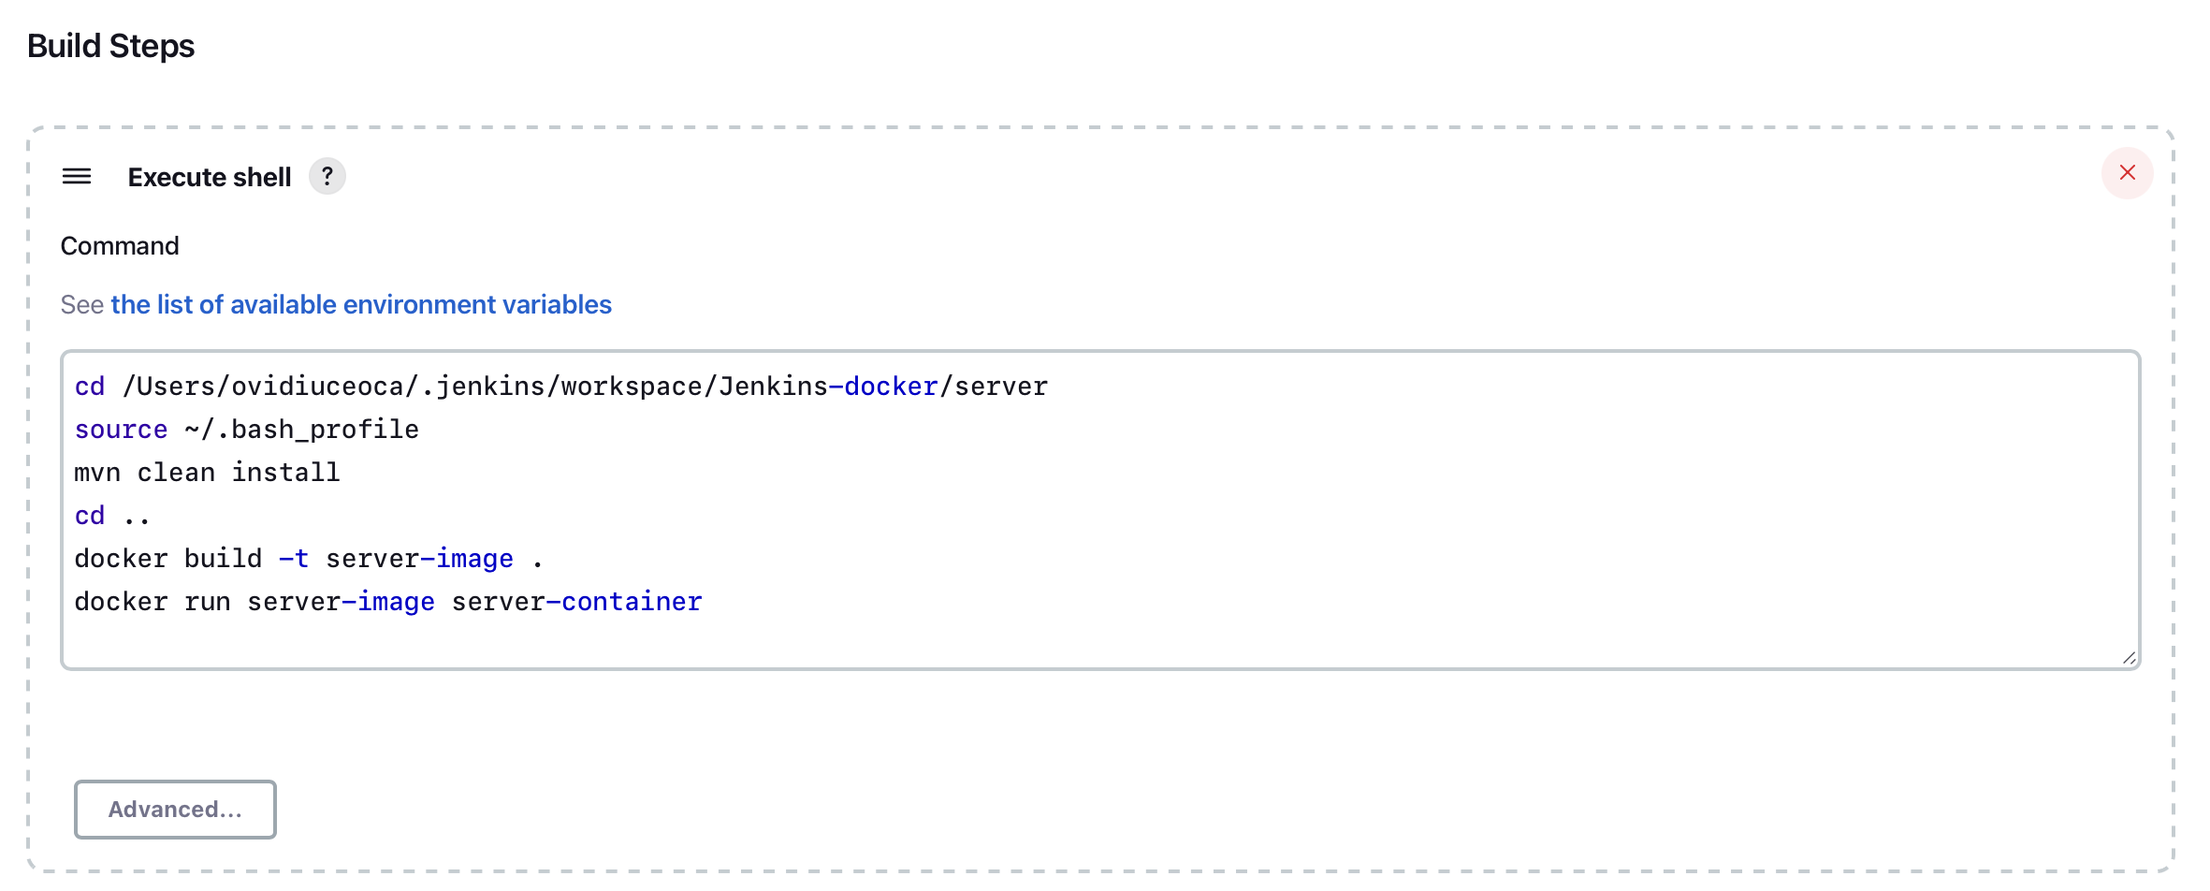
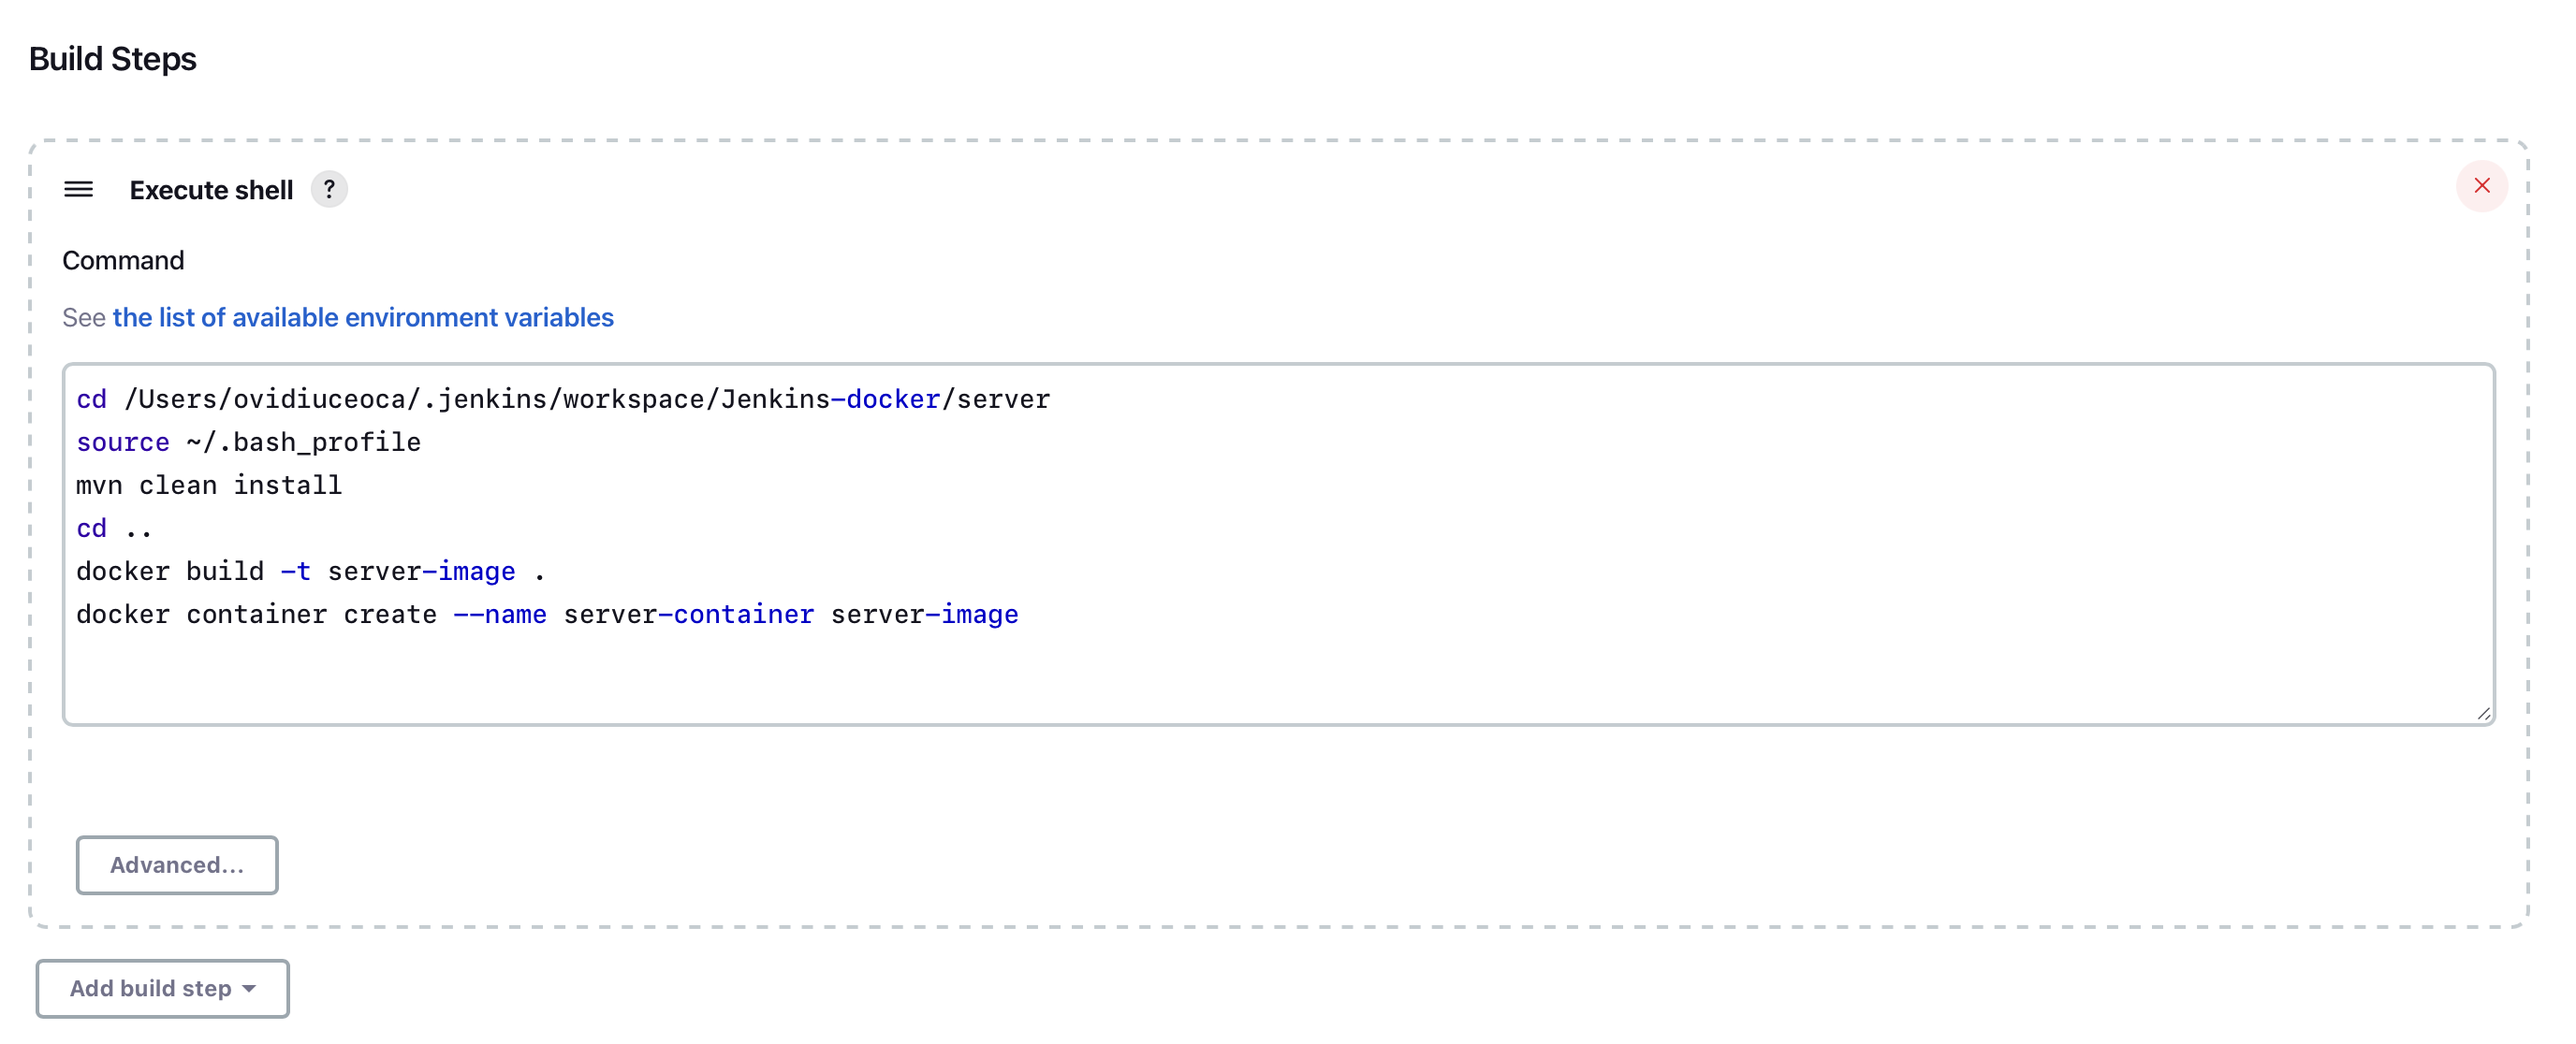
jenkins now creates a container without running it

diff --git a/README.md b/README.md
@@ -10,7 +10,7 @@
 - [Jenkins Plugins](#jenkins-plugins)
 - [(*optional*) Jenkins Global Tool Configuration](#optional-jenkins-global-tool-configuration)
 - [Create JAR using Jenkins Job](#create-jar-using-jenkins-job)
-- [Create Docker image from the JAR](#create-docker-image-from-the-jar)
+- [Create Docker Container from the JAR](#create-docker-container-from-the-jar)
 - [Errors](#errors)
 
 # Versions
@@ -103,6 +103,8 @@ brew services restart jenkins-lts
 
 ! On "Unlock Jenkins" page is the path where you can find the initial password that you need to use.
 
+! Jenkins page can be found [here](http://localhost:8080)
+
 # Jenkins Plugins
 
 1. Go to Jenkins *Dashboard*
@@ -144,18 +146,52 @@ mvn clean install
 
 > NOTE: Change the lines according to your setup. 
 
-# Create Docker image from the JAR
-
-1. Select the job and click on **Configure**
-2. Just add the following lines of code in **Build Steps** 
+# Create Docker Container from the JAR
+1. Make sure that *Docker* is running in background
+2. Select the job and click on **Configure**
+3. Just add the following lines of code in **Build Steps** 
 ![jenkins_docker_image](media/jenkins_docker_image.png)
 ```
 cd ..
 docker build -t server-image .
-docker run server-image server-container
+docker container create --name server-container server-image
 ```
-3. There should be some error regarding *Docker* like **docker: command not found**, but you can follow the optional step above to install it in *Jenkins* and after that restart both platforms.
-4. After running the job again, the docker starts creating the image   
+4. There should be some error regarding *Docker* like **docker: command not found**, but you can follow the optional step above to install it in *Jenkins* and after that restart both platforms.
+5. After running the job again, the docker starts creating the image   
 ![jenkins_docker_success](media/jenkins_docker_success.png)
+6. And finally, open the terminal and enter the following command
+```
+docker ps
+```
+7. You can see that the container is running. This is ok because that is what we wanted, but because is a Spring project, it means that the Jenkins job will never end so we need to create the container, but do not run it.
+![docker_running_container](media/docker_running_container.png)
+
+8. If you get an error like this, it is because there is already a container with that name on docker so to avoid this problem, the build steps should be changed. Firstly, the container should be stopped and deleted, and then rebuilt.:
+![docker_duplicate_container](/media/docker_duplicate_container.png)
+
+9. Change the code to the one below. I also added some *echo* commands to let the user know what is happening behind the scene.
+![docker_duplicate_container_solution](media/docker_duplicate_container_solution.png)
+
+```
+cd /Users/ovidiuceoca/.jenkins/workspace/Jenkins-docker/server
+source ~/.bash_profile
+mvn clean install
+cd ..
+echo "Building the image..."
+docker build -t server-image .
+echo "Stopping and removing already running container..."
+docker stop server-container || true && docker rm server-container || true
+echo "Creating the container..."
+docker container create --name server-container server-image
+echo "Container created. It is ready to run"
+```
+
+10. Now we have a created container but it is not running so open a terminal and run the following command:
+
+```
+docker start server-container
+```
+
+11. Now the container is running and everytime you push something to the git repo, the job will activate and create a new image and container based on the code you pushed.
 # Errors
 ![java_error_01](media/java_error_01.png)
